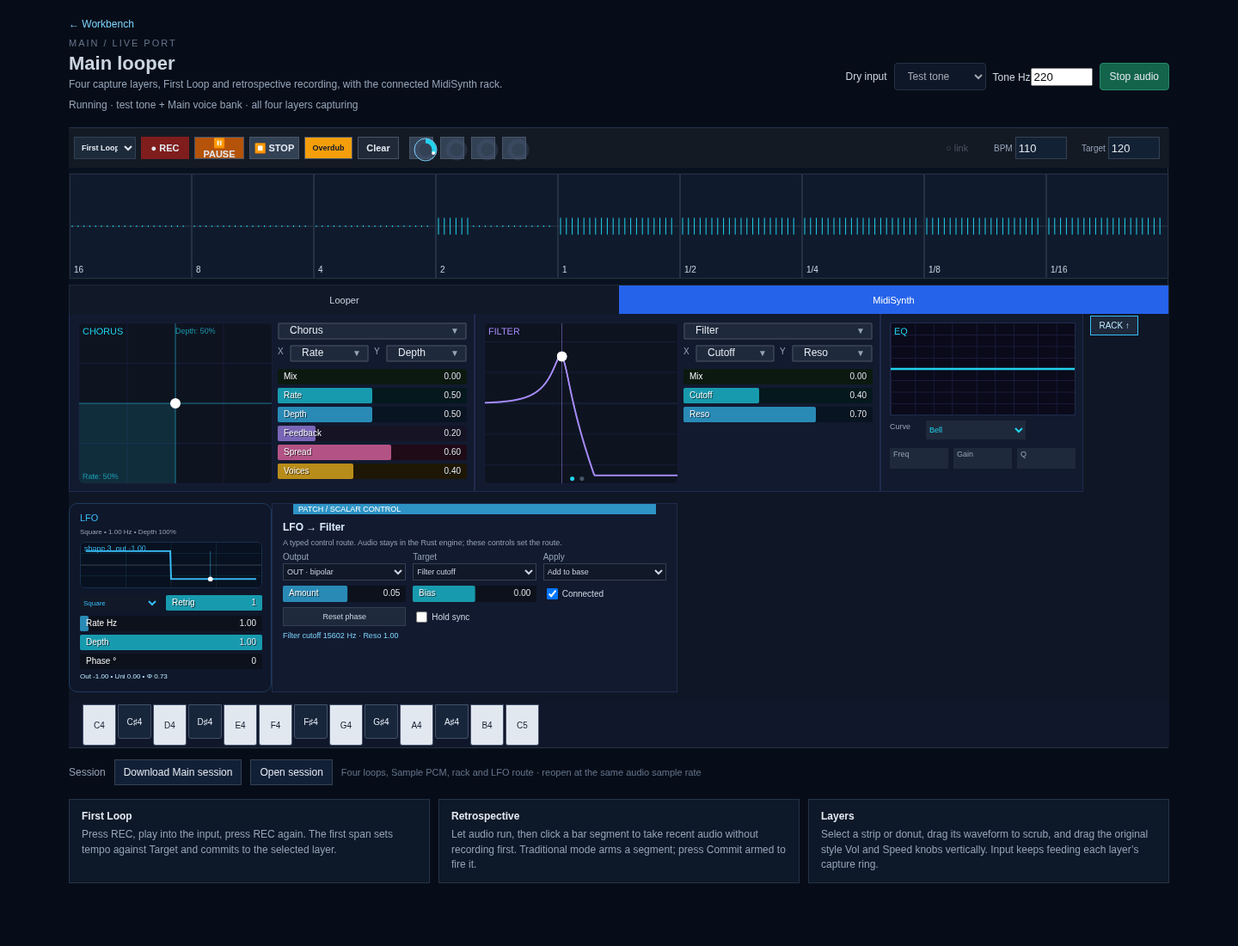
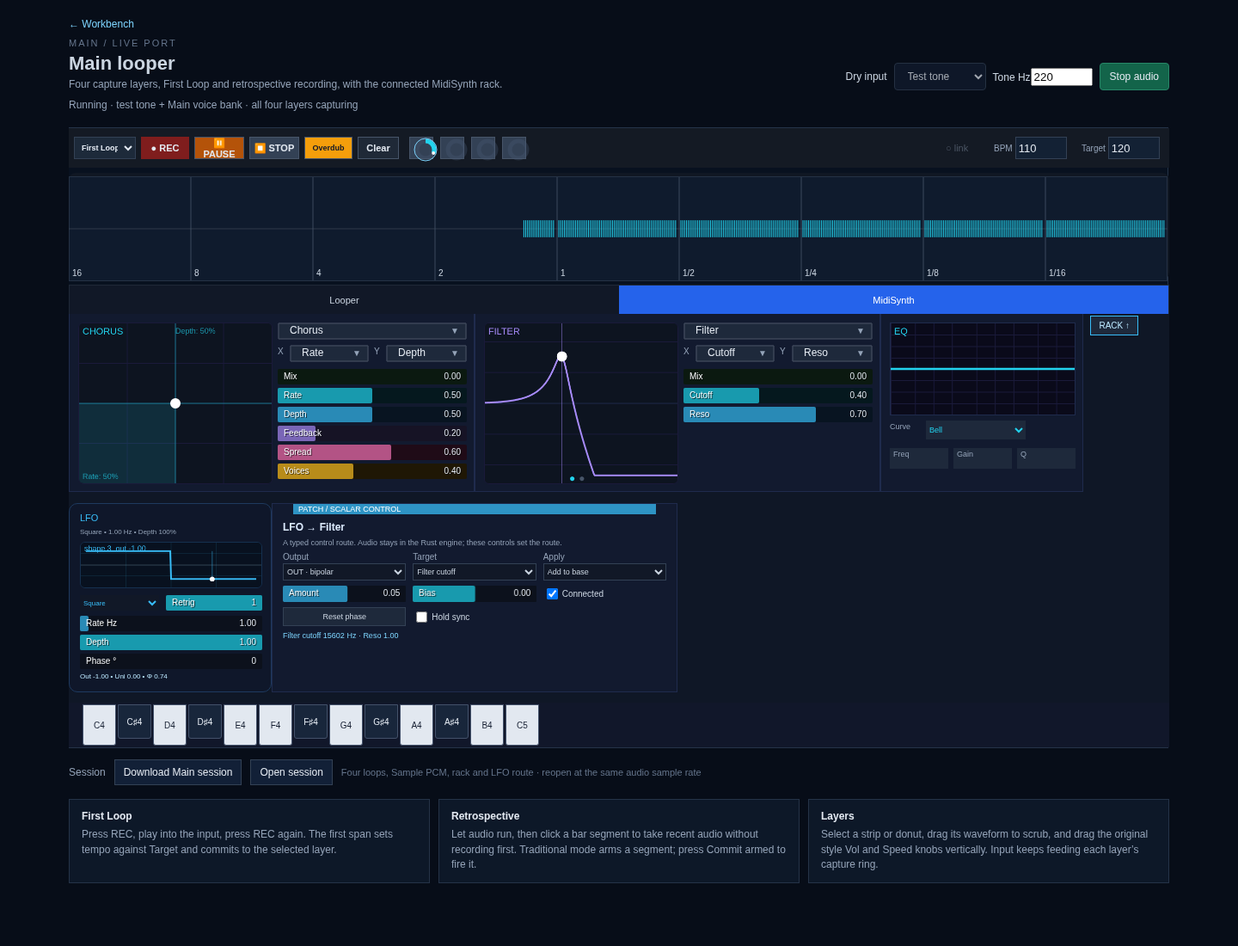
Correct Main capture strip orientation and original plane geometry

diff --git a/web/public/main-looper-review.html b/web/public/main-looper-review.html
@@ -4,9 +4,9 @@
 :root{font:15px/1.5 system-ui,sans-serif;background:#f4f5f0;color:#203329;--line:#c9d6cd;--accent:#28624c}*{box-sizing:border-box}body{margin:0}main{max-width:1050px;margin:auto;padding:36px 20px 80px}header{border-top:3px solid var(--accent);padding-top:12px}.eyebrow{font:11px ui-monospace,monospace;letter-spacing:.13em;text-transform:uppercase;color:#995d3c}h1,h2{font-family:Georgia,serif;font-weight:400;line-height:1.1}h1{font-size:clamp(38px,6vw,64px);margin:12px 0}h2{font-size:27px;margin:0 0 12px}p{max-width:75ch;color:#395346}a{color:var(--accent)}section{border-top:1px solid var(--line);margin-top:28px;padding-top:20px}.links{display:flex;gap:20px;flex-wrap:wrap;margin:16px 0}.grid{display:grid;grid-template-columns:repeat(2,1fr);gap:10px}.card{padding:14px 16px;border:1px solid var(--line);background:#fff}.card strong{display:block;margin-bottom:5px}.card span{font-size:13px;color:#526458}.figure{background:#09121f;padding:8px;border:1px solid #263446}.figure img{display:block;width:100%;height:auto}.caption{font-size:12px;color:#68746d;margin-top:6px}.steps{counter-reset:item;display:grid;grid-template-columns:repeat(2,1fr);gap:10px;list-style:none;padding:0}.steps li{border:1px solid var(--line);background:white;padding:14px}.steps li::before{counter-increment:item;content:counter(item,decimal-leading-zero);font:12px ui-monospace,monospace;color:#995d3c;display:block;margin-bottom:6px}.note{border-left:3px solid #a76c45;background:#fff;padding:14px 18px}code{font:13px ui-monospace,monospace}@media(max-width:700px){.grid,.steps{grid-template-columns:1fr}}
 </style></head><body><main>
 <header><div class="eyebrow">Manifold v2 / correction checkpoint / 27 September 2026</div><h1>Main looper port:<br>what is actually here.</h1><p>The earlier link opened a standalone looper study, and I called it the Main instrument. That was inaccurate. This page tracks the original looper behaviors and the Live and layer Sample source connections already wired through Rust, alongside the Main instrument work still missing.</p><div class="links"><a href="http://127.0.0.1:4173/main-looper.html">Open the Main looper →</a><a href="/main-modulation-review.html">Main LFO checkpoint</a><a href="/manifold-total-progress.html">Total progress</a><a href="/?primitive=loop-capture">Earlier loop primitive</a></div></header>
-<section><h2>28 September correction</h2><p>The direct test page is <a href="http://127.0.0.1:4173/main-looper.html">Main looper — open here</a>. The site root is the separate workbench. The capture visualization now fills left to right from the first input sample; an adjacent older region receives that sample as it ages. A direct Wasm signal probe checks loud input followed by silence against the same bins the worklet draws. The browser check confirms the original waveform and volume knob x positions and saves and restores the Main Sample and rack in a version 2 session.</p></section>
+<section><h2>28 September correction</h2><p>The direct test page is <a href="http://127.0.0.1:4173/main-looper.html">Main looper — open here</a>. The site root is the separate workbench. The first 1/16-bar region fills left to right from the first input sample; older regions receive that sample at their right edge as it ages across the capture plane. A direct Wasm signal probe checks loud input followed by silence against the same bins the worklet draws. The browser check confirms the original waveform and volume knob x positions and saves and restores the Main Sample and rack in a version 2 session.</p></section>
 <section><div class="figure"><img src="/main-looper-live.png" alt="Current browser looper port with Main voice bank source and four looper strips"></div><div class="caption">Current Chromium capture: the Main Rust voice bank feeds the same audio callback and four capture rings as the looper. This is a port in progress, not the complete historical Main instrument.</div></section>
-<section><h2>Capture plane correction</h2><p>The nine regions still run from 16 bars on the left to 1/16 bar on the right. Each region now fills from its left edge while the capture ring is warming. Its earlier audio remains at the left and newer audio at the right; empty space stays at the right until the region fills. The nine visible regions keep the historical 16-to-1/16-bar order. A direct Wasm probe feeds 500 loud samples followed by 500 quiet samples. It confirms the first 1/16-bar bins are loud, the last bins are quiet, and the adjoining older region is empty. After a commit, the loop head remains loud and its tail remains quiet: the saved PCM has the same order as the display.</p><div class="figure"><img src="/main-looper-narrow.png" alt="The complete 1280 by 720 looper panel scaled into a 900 pixel browser window without clipping any capture region"></div><div class="caption">At 900 px the full original-size panel scales together; its transport, nine capture regions, and four layer strips remain aligned and visible.</div><p>Exact local address: <a href="http://127.0.0.1:4173/main-looper.html">http://127.0.0.1:4173/main-looper.html</a>. The path ends in <code>main-looper.html</code>; the site root opens the separate workbench.</p></section>
+<section><h2>Capture plane correction</h2><p>The nine regions still run from 16 bars on the left to 1/16 bar on the right. The first 1/16-bar region fills from its left edge. An older region fills from its right edge as audio crosses over from the neighboring younger region. Earlier audio remains to the left and newer audio to the right within every region. Silent and unfilled bins draw no cyan ticks. The nine visible regions keep the historical 16-to-1/16-bar order and 142-pixel strip geometry. A direct Wasm probe feeds 500 loud samples followed by 500 quiet samples. It confirms the first 1/16-bar bins are loud, the last bins are quiet, and the adjoining older region is empty. After a commit, the loop head remains loud and its tail remains quiet: the saved PCM has the same order as the display.</p><div class="figure"><img src="/main-looper-narrow.png" alt="The complete 1280 by 720 looper panel scaled into a 900 pixel browser window without clipping any capture region"></div><div class="caption">At 900 px the full original-size panel scales together; its transport, nine capture regions, and four layer strips remain aligned and visible.</div><p>Exact local address: <a href="http://127.0.0.1:4173/main-looper.html">http://127.0.0.1:4173/main-looper.html</a>. The path ends in <code>main-looper.html</code>; the site root opens the separate workbench.</p></section>
 <section><h2>MidiSynth rack checkpoint: ADSR, Source, Filter, FX1, FX2, EQ</h2><p>The Main page now has two full-width tabs under its shared transport and capture plane. MidiSynth places ADSR at x=0, Source at x=236, Filter at x=708, FX1 at x=0, FX2 at x=472, and the eight-band EQ at x=944 on the second row, using the legacy rack shell sizes. Source keeps its left graph, right Wave/Sample/Blend tabs, segmented selectors, and compact slider controls from Manifold’s Lua widget renderer. Live taps dry input. L1–L4 tap each loop after its playback gate and before volume gain. Retro or Free Cap publishes a validated stereo sample to the Rust eight-voice bank. The graph reads bounded peaks from that actual sample; Wave and Blend controls target the Rust oscillator and blend modes.</p><div class="figure"><img src="/main-filter-rack.png" alt="Main Filter in Highpass mode with response graph, cutoff and resonance changed by dragging"></div><div class="caption">The original Filter panel now changes the shared Rust SVF after the voice mix. This image shows a browser drag setting Highpass, about 2.5 kHz cutoff and 1.34 on the resonance control. As in the old SVF, DSP resonance saturates at 1.</div><div class="figure"><img src="/main-fx-rack.png" alt="Original wide FX1 and FX2 panels in the Main MidiSynth rack, with FX2 Filter graph, type controls and compact sliders"></div><div class="caption">The two original 472×208 FX slots now run in series between Filter and EQ. Each selects among 21 Rust effect kernels and keeps separate values when switching types. This Chromium capture uses FX2 Filter at full mix, with the graph dragging Cutoff and Reso; FX1 shows the XY pad. Both panels reuse the original compact slider and dropdown ports.</div><div class="figure"><img src="/main-eq-rack.png" alt="Main EQ with a selected Bell band and its response read from the Rust eight-band processor"></div><div class="caption">The compact EQ panel follows the legacy graph and field layout. A Bell band at 632 Hz and +12 dB was created in Chromium; the cyan curve is a bounded snapshot of the Rust processor’s actual coefficient response. Click to add, drag to tune, use the wheel for Q, and double click to remove.</div><div class="figure"><img src="/main-midisynth-rack.png" alt="Main MidiSynth tab with connected ADSR and Source modules beneath shared transport and capture plane"></div><div class="caption">Chromium checkpoint in the real MidiSynth tab. The ADSR, Source, Filter, two FX slots, and EQ target the same Rust instrument; the remaining rack area is open for modules still to be ported.</div><div class="figure"><img src="/main-source-panel.png" alt="Original-style Source module with captured waveform, Sample controls and compact sliders"></div><div class="caption">Source module after Live capture: the graph displays the frozen Rust sample, while Bars, Root, X-Fade, Blend and Output use the compact slider port.</div><div class="figure"><img src="/main-live-sample.png" alt="Main looper and Source module after Live Sample capture"></div><div class="caption">The Source and four-layer looper use one Rust/Wasm audio path. The module is a working subset of the old MidiSynth rack, which remains incomplete.</div><div class="figure"><img src="/main-layer-sample.png" alt="Main looper port with L1 selected and its playback captured into the Sample voice"></div><div class="caption">The same Cap path with L1 selected. Rust tests check that the sampled PCM follows gate mute and ignores layer volume.</div><p>Try it: choose Test tone or a file as Dry input and start audio. Click MidiSynth, set Bars to 1/16, click Cap with Live selected, then play a piano key. Drag the ADSR graph’s Attack point to change the audible envelope, drag the Filter graph to set cutoff and resonance, change an FX type and mix in the second row, or click the EQ graph to create a band and edit its Freq/Gain/Q fields. Click Looper to commit a loop into L1; return to MidiSynth, choose L1 in the Sample source menu, and click Cap again. Blend moves to the Sample side when capture completes.</p></section>
 <section><h2>Free Sample recording</h2><p>Free mode uses two presses of the original Cap control. The first marks the selected source and shows STOP with an elapsed-length readout; the second captures only the audio recorded since that press. The Rust capture keeps the original source even if selection changes, and caps long recordings to the prepared ring.</p><div class="figure"><img src="/main-free-recording.png" alt="L1 Free sample recording in progress with red STOP button and elapsed milliseconds"></div><div class="caption">L1 Free recording in Chromium with the elapsed duration visible.</div><div class="figure"><img src="/main-free-sample.png" alt="L1 Free sample completed with captured duration and Sample blend selected"></div><div class="caption">The second press published the L1 span to the Rust voice bank. Direct Wasm playback and native timing tests cover the signal path.</div></section>
 <section><h2>What is connected</h2><div class="grid"><div class="card"><strong>First Loop</strong><span>REC measures the selected layer’s input span. Stop infers legal bars and BPM nearest the Target value, then commits audio to that layer.</span></div><div class="card"><strong>Retrospective capture</strong><span>All four layers keep 30 seconds of input. The nine bar regions select recent history without a preceding REC action.</span></div><div class="card"><strong>Four playable layers</strong><span>Independent loop PCM, position, volume, mute, signed speed/reverse, seek/scrub, play/pause, and clear. Dry input and loop output mix as in Main.</span></div><div class="card"><strong>Other modes and persistence</strong><span>Free Mode quantizes at the current tempo. Traditional arms a segment for explicit fire. Both commit-based overdub length policies are in Rust. Version 3 session JSON saves four loops, the captured Main Sample PCM, Source, ADSR, Filter, FX1, FX2, EQ, and the connected LFO route for same-rate reopen. Versions 1 and 2 remain importable.</span></div></div></section>

diff --git a/web/src/main-looper.js b/web/src/main-looper.js
@@ -8,6 +8,7 @@ import { mountMainFilter } from './widgets/main-filter.js';
 import { mountMainEq } from './widgets/main-eq.js';
 import { mountMainFxSlot } from './widgets/main-fx-slot.js';
 import { mountMainLfo, DEFAULT_LFO_STATE } from './widgets/main-lfo.js';
+import { mountMainCapturePlane } from './widgets/main-capture-plane.js';
 
 const $ = (id) => document.getElementById(id);
 const bars = project.segments;
@@ -320,6 +321,7 @@ function drawWave(canvas, peaks, position, color, pending = 0) {
   ctx.strokeStyle = '#334155'; ctx.beginPath(); ctx.moveTo(0, h / 2); ctx.lineTo(w, h / 2); ctx.stroke();
   ctx.strokeStyle = color; ctx.lineWidth = 1;
   for (let i = 0; i < peaks.length; i++) {
+    if (peaks[i] <= 0) continue;
     const x = Math.floor(i * w / peaks.length), y = Math.max(1, peaks[i] * h * .44);
     ctx.beginPath(); ctx.moveTo(x + .5, h / 2 - y); ctx.lineTo(x + .5, h / 2 + y); ctx.stroke();
   }
@@ -328,17 +330,6 @@ function drawWave(canvas, peaks, position, color, pending = 0) {
     ctx.beginPath(); ctx.moveTo(x + .5, 0); ctx.lineTo(x + .5, h); ctx.stroke();
   }
   if (pending > 0) { ctx.fillStyle = '#84cc1655'; ctx.fillRect(0, h - 3, pending * w, 3); }
-}
-
-function drawSegment(canvas, peaks) {
-  const ctx = canvas.getContext('2d'), w = canvas.width, h = canvas.height;
-  ctx.clearRect(0, 0, w, h); ctx.strokeStyle = '#ffffff22';
-  ctx.beginPath(); ctx.moveTo(0, h / 2); ctx.lineTo(w, h / 2); ctx.stroke();
-  ctx.strokeStyle = '#22d3ee';
-  for (let i = 0; i < peaks.length; i++) {
-    const x = 2 + i * (w - 4) / peaks.length, y = Math.max(1, peaks[i] * h * .45);
-    ctx.beginPath(); ctx.moveTo(x, h / 2 - y); ctx.lineTo(x, h / 2 + y); ctx.stroke();
-  }
 }
 
 function drawDonut(canvas, layer, selected, color) {
@@ -383,7 +374,7 @@ function makeKnob(layer, id, label, min, max, initial, color) {
   return canvas;
 }
 
-const layerElements = [], segmentElements = [], donutElements = [];
+const layerElements = [], donutElements = [];
 for (let index = 0; index < project.layers; index++) {
   const donut = document.createElement('button'); donut.className = 'donut'; donut.title = `Select layer ${index + 1}`;
   donut.innerHTML = '<canvas width="28" height="28"></canvas>';
@@ -445,15 +436,8 @@ for (let index = 0; index < project.layers; index++) {
   wave.addEventListener('pointercancel', endScrub);
   layerElements.push({ row, wave, volume, speed, mute, play });
 }
-for (let index = 0; index < bars.length; index++) {
-  const segment = document.createElement('div'); segment.className = 'segment';
-  segment.innerHTML = `<canvas width="140" height="122"></canvas><span>${labels[index]}</span>`;
-  segment.title = `${labels[index]} bars — click to ${$('mode').value === '2' ? 'arm' : 'commit'} recent audio`;
-  segment.onclick = () => command(project.commands.segment, bars[index]);
-  segment.onmouseenter = () => segmentElements.forEach((item, itemIndex) => item.classList.toggle('hovered', itemIndex >= index));
-  segment.onmouseleave = () => segmentElements.forEach(item => item.classList.remove('hovered'));
-  $('capture').append(segment); segmentElements.push(segment);
-}
+const capturePlane = mountMainCapturePlane($('capture'), bars, labels,
+  duration => command(project.commands.segment, duration));
 
 const stateNames = ['Empty', 'Playing', 'Recording', 'Stopped', 'Paused'];
 const stateColors = ['#64748b', '#34d399', '#ef4444', '#fde047', '#a78bfa'];
@@ -465,6 +449,7 @@ function render(data) {
   drawSourceGraph();
   if (document.activeElement !== $('tempo')) $('tempo').value = Math.round(data.tempo);
   if (document.activeElement !== $('mode')) $('mode').value = String(data.mode);
+  capturePlane.setMode(data.mode === 2);
   $('rec').classList.toggle('active', data.recording);
   $('rec').textContent = data.recording ? '● REC*' : '● REC';
   $('overdub').classList.toggle('active', data.overdub);
@@ -486,11 +471,7 @@ function render(data) {
     if (dragging !== ui.speed) { ui.speed.dataset.value = layer.speed; drawKnob(ui.speed, layer.speed, -4, 4, 'Speed', '#22d3ee'); }
     drawDonut(donutElements[index].querySelector('canvas'), layer, index === data.active, layerColors[index]);
   }
-  for (let index = 0; index < bars.length; index++) {
-    const segment = segmentElements[index];
-    segment.classList.toggle('armed', data.forwardBars === bars[index]);
-    drawSegment(segment.querySelector('canvas'), data.segments[index]);
-  }
+  capturePlane.render(data.segments, data.forwardBars);
 }
 
 function nextSaveChunk() {
@@ -745,7 +726,10 @@ wireSegments('sample-pitch-mode', mode => {
 $('blend-mode').onchange = () => synthParameter(synthIds.blendMode, Number($('blend-mode').value));
 wireSegments('blend-keytrack', mode => synthParameter(synthIds.keytrack, mode));
 $('pitch').onchange = () => { if (sourceNode?.frequency) sourceNode.frequency.setTargetAtTime(Math.max(60, Math.min(1200, Number($('pitch').value))), context.currentTime, .01); };
-$('mode').onchange = () => control(project.controls.mode, Number($('mode').value));
+$('mode').onchange = () => {
+  capturePlane.setMode($('mode').value === '2');
+  control(project.controls.mode, Number($('mode').value));
+};
 $('tempo').onchange = () => control(project.controls.tempo, Number($('tempo').value));
 $('target').onchange = () => control(project.controls.targetBpm, Number($('target').value));
 $('rec').onclick = () => command(latest?.recording ? project.commands.stopRecord : project.commands.record);

diff --git a/web/public/main-capture-orientation-review.html b/web/public/main-capture-orientation-review.html
@@ -1,0 +1,7 @@
+<!doctype html>
+<html lang="en"><head><meta charset="utf-8"><meta name="viewport" content="width=device-width,initial-scale=1"><title>Main capture plane · orientation review</title>
+<style>:root{font:15px/1.5 system-ui,sans-serif;background:#f4f5f0;color:#203329;--line:#c9d6cd;--accent:#28624c}*{box-sizing:border-box}body{margin:0}main{max-width:1000px;margin:auto;padding:36px 20px 80px}header{border-top:3px solid var(--accent);padding-top:12px}.eyebrow{font:11px ui-monospace,monospace;letter-spacing:.13em;text-transform:uppercase;color:#995d3c}h1,h2{font-family:Georgia,serif;font-weight:400;line-height:1.1}h1{font-size:clamp(38px,6vw,62px);margin:12px 0}h2{font-size:27px;margin:0 0 12px}p{max-width:75ch;color:#395346}a{color:var(--accent)}section{border-top:1px solid var(--line);margin-top:28px;padding-top:20px}.links{display:flex;gap:20px;flex-wrap:wrap;margin:16px 0}.flow{display:grid;grid-template-columns:repeat(4,1fr);gap:1px;background:#829b8d;border:1px solid #829b8d}.flow div{background:white;padding:12px;min-height:84px}.flow strong,.flow span{display:block}.flow span{font-size:12px;color:#526458;margin-top:5px}.figure{background:#09121f;padding:8px;border:1px solid #263446}.figure img{display:block;width:100%;height:auto}.caption{font-size:12px;color:#68746d;margin-top:6px}@media(max-width:650px){.flow{grid-template-columns:repeat(2,1fr)}}</style></head><body><main>
+<header><div class="eyebrow">Manifold v2 / Main looper / capture correction</div><h1>Watch the actual<br>capture plane.</h1><p>The link below opens the Main looper itself. The site root opens a separate primitive workbench.</p><div class="links"><a href="/main-looper.html">Open Main looper directly →</a><a href="/main-looper-review.html">Full looper status</a></div></header>
+<section><h2>What changed</h2><div class="flow"><div><strong>1/16 bar</strong><span>The first captured audio starts at the left edge of the rightmost strip.</span></div><div><strong>Crossing</strong><span>As it ages, audio leaves that strip at its left edge.</span></div><div><strong>Older strips</strong><span>It enters each adjacent older strip at its right edge and moves left.</span></div><div><strong>Silence</strong><span>Empty and silent bins remain blank; no false cyan waveform.</span></div></div><p>The nine strips retain the original 16-to-1/16-bar order and 142 px widths. Their top edge now sits 4 px below the capture plane origin, matching the old Main UI coordinates.</p><div class="figure"><img src="/main-looper-live.png" alt="Main looper with capture waveforms moving across the nine original-size strips"></div><div class="caption">Chromium capture after the fix. The Main instrument runs in the same Rust/Wasm engine as the audio you hear.</div></section>
+<section><h2>Checked against audio</h2><p>A direct Wasm probe feeds loud audio then quiet audio. It checks their order in the newest strip, the same order in the committed loop, and the loud audio entering the right edge of the neighboring older strip. A browser check measures the capture plane and strip positions, then exercises recording, sampling, playback, and session reopen.</p></section>
+</main></body></html>

diff --git a/web/src/widgets/main-capture-plane.js b/web/src/widgets/main-capture-plane.js
@@ -1,0 +1,46 @@
+// Main's nine capture strips follow the fixed geometry in
+// Main/ui/components/shared_capture_plane.ui.lua.
+function drawStrip(canvas, peaks) {
+  const ctx = canvas.getContext('2d'), w = canvas.width, h = canvas.height;
+  ctx.fillStyle = '#0f1b2d'; ctx.fillRect(0, 0, w, h);
+  ctx.strokeStyle = '#ffffff22';
+  ctx.beginPath(); ctx.moveTo(0, h / 2); ctx.lineTo(w, h / 2); ctx.stroke();
+  ctx.strokeStyle = '#22d3ee';
+  for (let bin = 0; bin < peaks.length; bin++) {
+    if (peaks[bin] <= 0) continue;
+    const x = 2 + bin * (w - 4) / peaks.length;
+    const height = Math.max(1, peaks[bin] * h * .45);
+    ctx.beginPath(); ctx.moveTo(x, h / 2 - height); ctx.lineTo(x, h / 2 + height); ctx.stroke();
+  }
+  ctx.strokeStyle = '#47556966'; ctx.strokeRect(.5, .5, w - 1, h - 1);
+}
+
+export function mountMainCapturePlane(root, bars, labels, onSegment) {
+  const strips = bars.map((duration, index) => {
+    const element = document.createElement('div');
+    element.className = 'segment';
+    const canvas = document.createElement('canvas');
+    canvas.width = 142; canvas.height = 122;
+    const label = document.createElement('span');
+    label.textContent = labels[index];
+    element.append(canvas, label);
+    element.title = `${labels[index]} bars — click to commit recent audio`;
+    element.addEventListener('click', () => onSegment(duration));
+    element.addEventListener('mouseenter', () => strips.forEach((strip, i) => strip.element.classList.toggle('hovered', i >= index)));
+    element.addEventListener('mouseleave', () => strips.forEach(strip => strip.element.classList.remove('hovered')));
+    root.append(element);
+    return { element, canvas, duration };
+  });
+
+  return {
+    setMode(traditional) {
+      for (const strip of strips) strip.element.title = `${strip.duration} bars — click to ${traditional ? 'arm' : 'commit'} recent audio`;
+    },
+    render(segments, armedBars) {
+      strips.forEach((strip, index) => {
+        strip.element.classList.toggle('armed', armedBars === strip.duration);
+        drawStrip(strip.canvas, segments[index] ?? []);
+      });
+    },
+  };
+}

diff --git a/web/src/audio/main-looper-processor.js b/web/src/audio/main-looper-processor.js
@@ -1,17 +1,26 @@
 /** Main looper adapter: device buffers and messages only; Rust owns audio/state. */
 // Vite serves this AudioWorklet module as an asset, so it must be self-contained.
-// Each strip is an age range. While it fills for the first time, place its
-// available chronological audio at the left edge; empty space stays at right.
-export function captureStripBins(bars, index, samplesPerBar, captureFrames, capturedFrames, count = 20) {
+// The newest strip starts at its left edge. As audio ages out of that strip,
+// it enters the right edge of the adjacent, older strip and travels left.
+// Each bin is a fixed age range once its strip is full.
+export function captureStripBins(bars, index, samplesPerBar, captureFrames, capturedFrames, count = 64) {
   const older = Math.min(captureFrames, Math.floor(bars[index] * samplesPerBar));
   const newer = Math.min(captureFrames, Math.floor((bars[index + 1] ?? 0) * samplesPerBar));
   const span = Math.max(0, older - newer);
   const available = Math.max(0, Math.min(span, capturedFrames - newer));
-  const filled = span ? Math.min(count, Math.ceil(count * available / span)) : 0;
-  return Array.from({ length: count }, (_, bin) => bin < filled ? [
-    Math.floor(newer + available - available * (bin + 1) / filled),
-    Math.floor(newer + available - available * bin / filled),
-  ] : null);
+  if (!span || !available) return Array(count).fill(null);
+  if (index === bars.length - 1 && available < span) {
+    const filled = Math.min(count, Math.ceil(count * available / span));
+    return Array.from({ length: count }, (_, bin) => bin < filled ? [
+      Math.floor(newer + available - available * (bin + 1) / filled),
+      Math.floor(newer + available - available * bin / filled),
+    ] : null);
+  }
+  return Array.from({ length: count }, (_, bin) => {
+    const start = Math.floor(older - span * (bin + 1) / count);
+    const end = Math.floor(older - span * bin / count);
+    return start < capturedFrames && end > start ? [start, Math.min(end, capturedFrames)] : null;
+  });
 }
 let project;
 class MainLooperProcessor extends AudioWorkletProcessor {

diff --git a/web/src/main-looper.css b/web/src/main-looper.css
@@ -225,30 +225,38 @@ body {
   min-width:1280px;
   background:#101723;
   display:flex;
-  padding:1px 1px;
+  padding:4px 0 0;
   margin:6px 0;
-  gap:0
+  gap:0;
+  border-radius:8px
 }
 
 .segment {
   height:122px;
-  flex:1;
-  min-width:0;
+  flex:0 0 142px;
   background:#0f1b2d;
   position:relative;
   cursor:pointer;
-  border:1px solid #47556966
+  border:0
 }
 
 .segment:hover,.segment.hovered {
-  outline:1px solid #60a5fa;
-  background:#18304c
+  outline:1px solid #60a5fa
 }
 
 .segment.armed {
-  outline:2px solid #84cc16;
-  background:#203d2c
+  outline:2px solid #84cc16
 }
+
+.segment:hover::after,.segment.hovered::after,.segment.armed::after {
+  content:'';
+  position:absolute;
+  inset:0;
+  pointer-events:none;
+  background:#60a5fa2a
+}
+
+.segment.armed::after { background:#84cc1633 }
 
 .segment canvas {
   width:100%;
